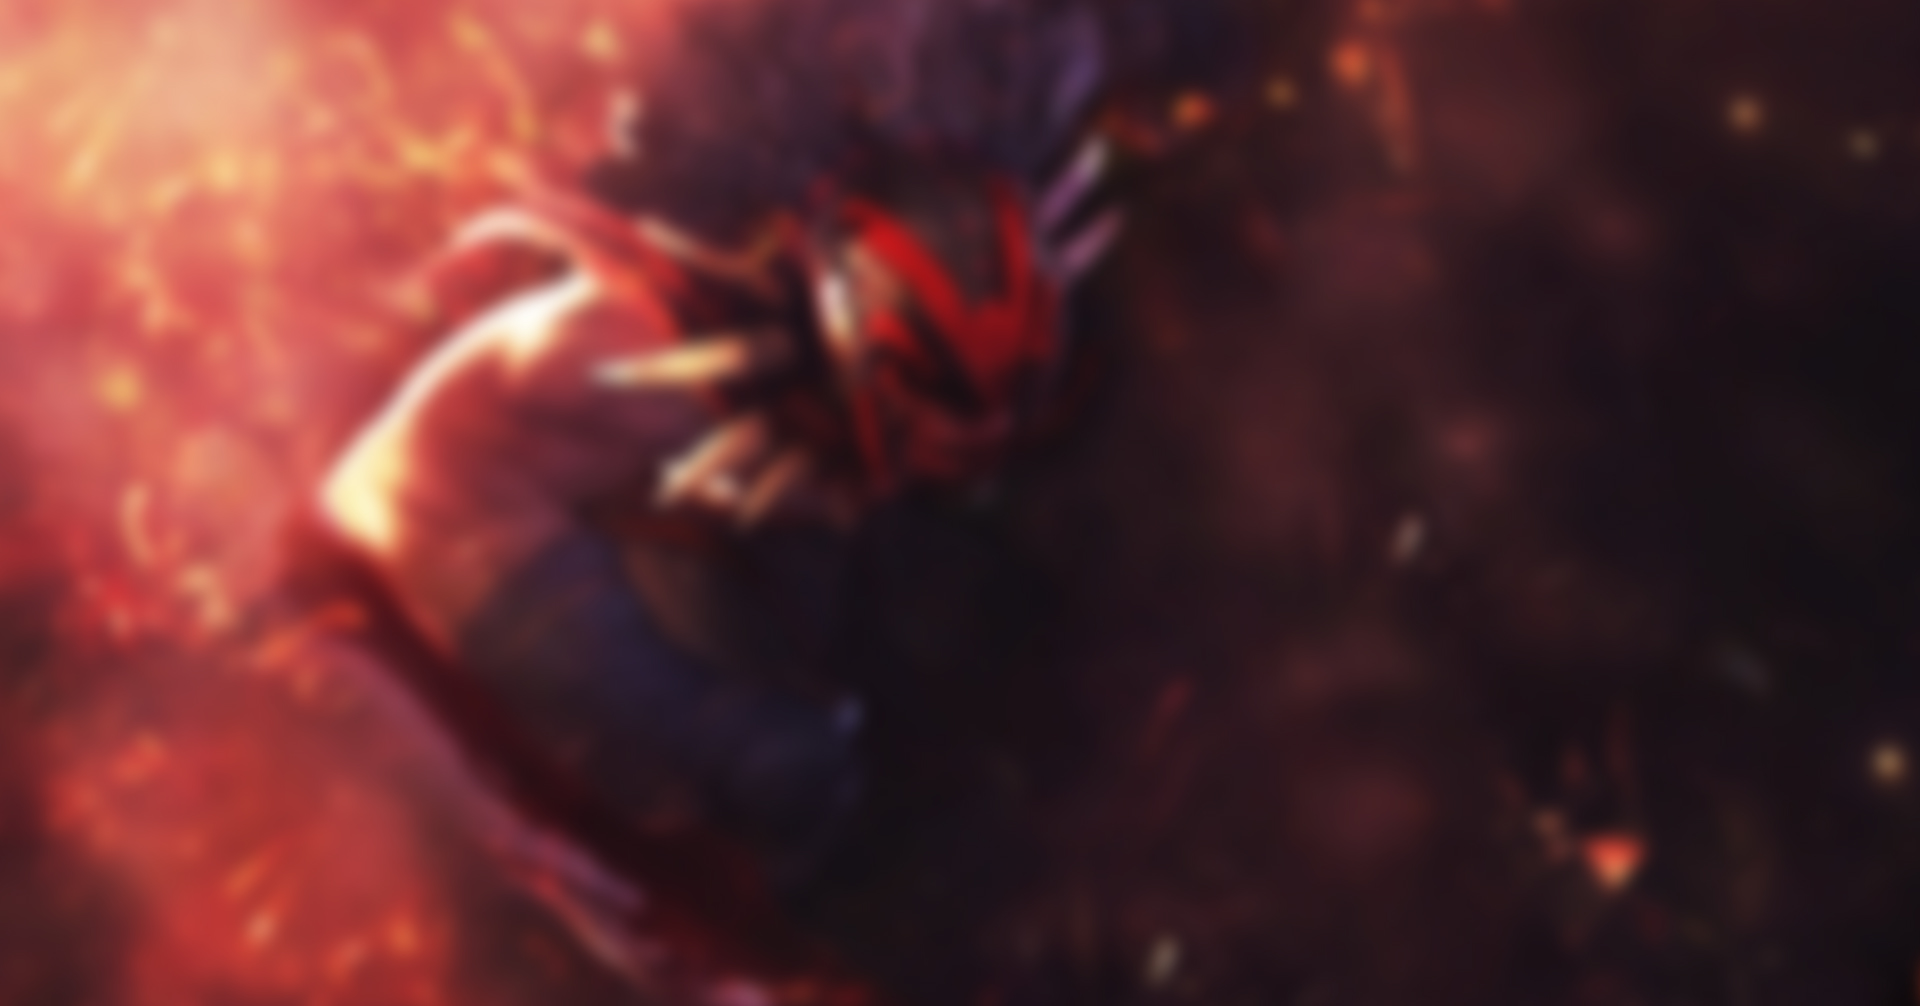
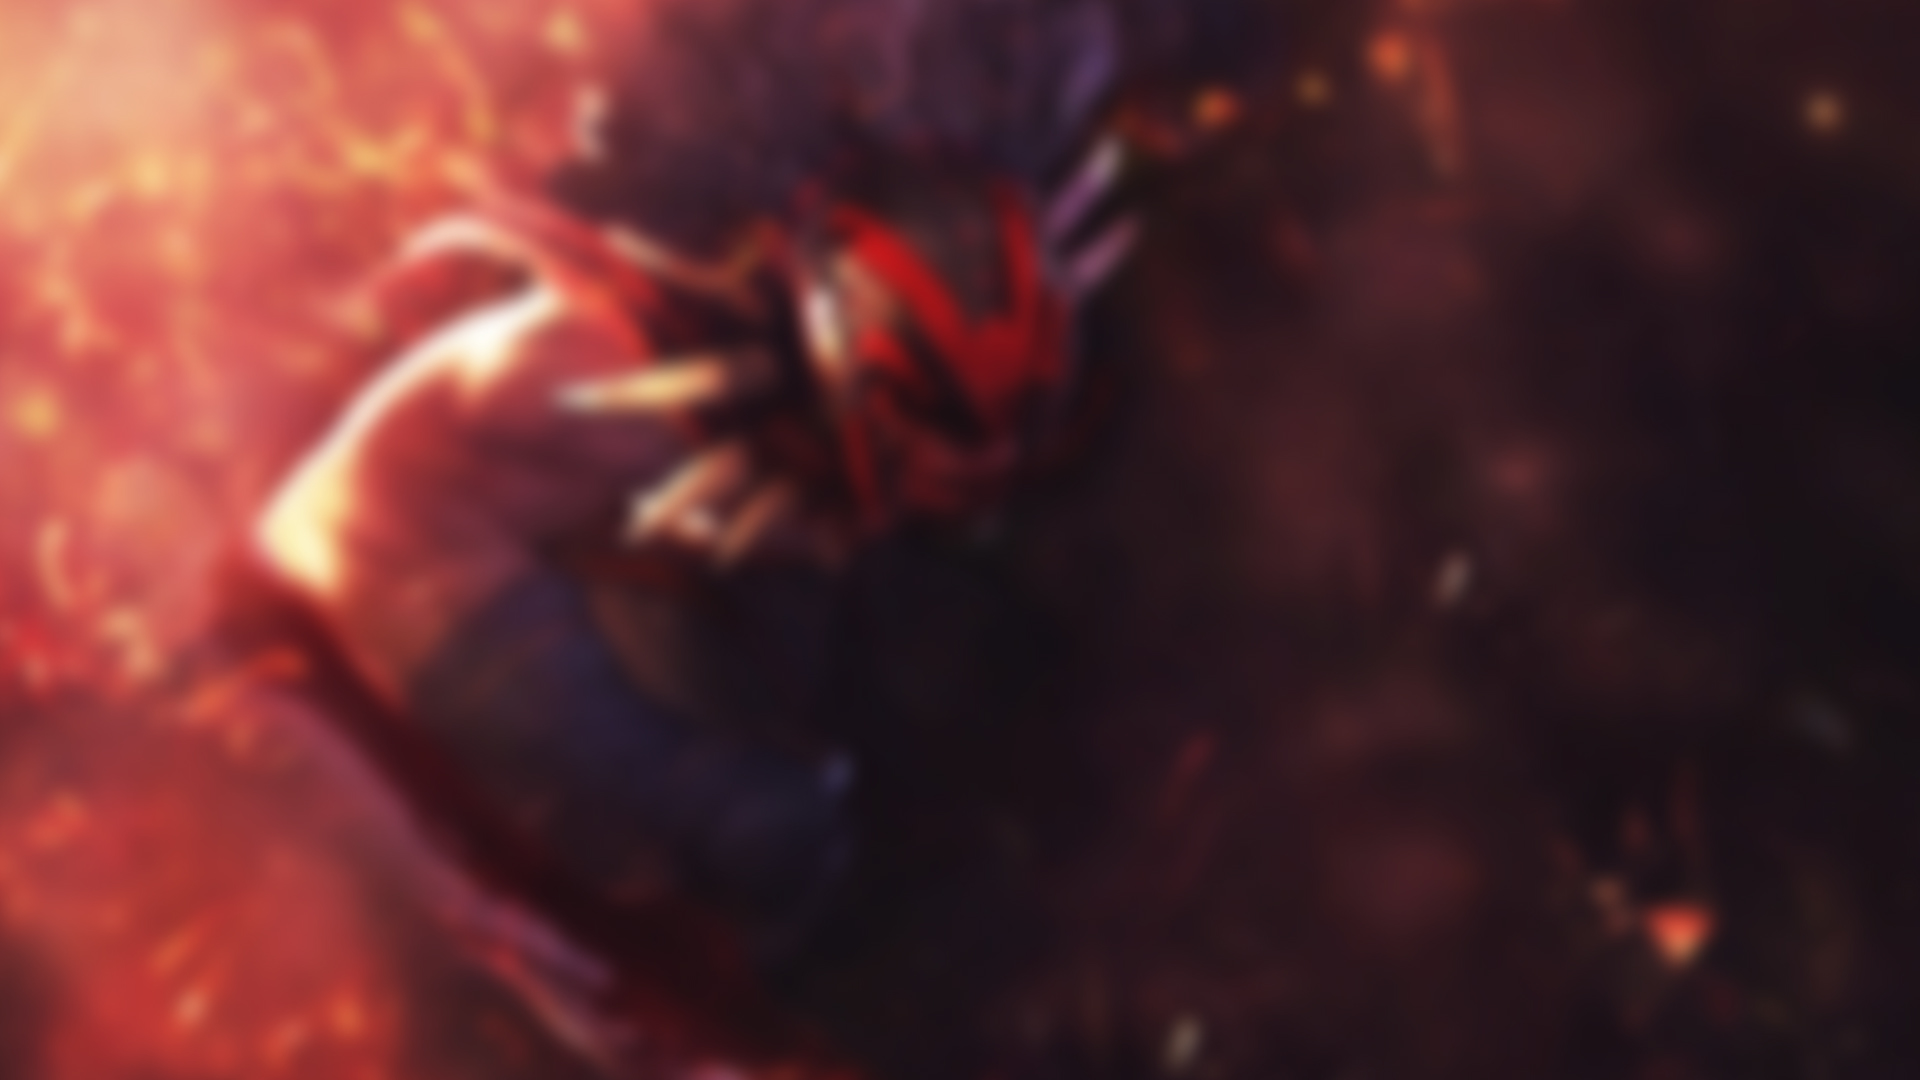
Fixed the background repeat + Added level up pictures.

diff --git a/characters/character-css/characters.css b/characters/character-css/characters.css
@@ -225,3 +225,48 @@ body a
   width:1200px;
   height:160px;
 }
+#levelq
+{
+    width: 100px;
+    height: 100px;
+    position: fixed;
+    top: 45%;
+    left: 30%;
+    transform: translate(-50%, -50%);
+    background-image: url("kb-icons/q.png");
+}
+#levelw
+{
+    width: 100px;
+    height: 100px;
+    position: fixed;
+    top: 45%;
+    left: 40%;
+    transform: translate(-50%, -50%);
+    background-image: url("kb-icons/w.png");
+}
+#levele
+{
+    width: 100px;
+    height: 100px;
+    position: fixed;
+    top: 45%;
+    left: 50%;
+    transform: translate(-50%, -50%);
+    background-image: url("kb-icons/e.png");
+}
+#levelr
+{
+    width: 100px;
+    height: 100px;
+    position: fixed;
+    top: 45%;
+    left: 60%;
+    transform: translate(-50%, -50%);
+    background-image: url("kb-icons/r.png");
+}
+body
+{
+  background-size: 100% 100%;
+  background-repeat: no-repeat;
+}

diff --git a/characters/abaddon.html b/characters/abaddon.html
@@ -13,6 +13,15 @@
 </div>
   <div id="picture">
   </div>
+  <div id="levelq">
+  </div>
+  <div id="levelw">
+  </div>
+  <div id="levele">
+  </div>
+  <div id="levelr">
+  </div>
+
   <div id="margin-line2">
   </div>
   <div class="bottom-main"

diff --git a/characters/character-js/abaddon.js b/characters/character-js/abaddon.js
@@ -1,5 +1,15 @@
+var q = 0;
+var w = 0;
+var e = 0;
+var r = 0;
+var maxq = 4;
+var maxw = 4;
+var maxe = 4;
+var maxr = 3;
 
 $(document).ready(function()
 {
-
+  $("#levelq").click(function(){
+      $("p").hide();
+  });  
 });

diff --git a/css/theme.css b/css/theme.css
@@ -176,3 +176,8 @@ body a
 {
   color: #000000;
 }
+body
+{
+  background-size: 100% 100%;
+  background-repeat: no-repeat;
+}
